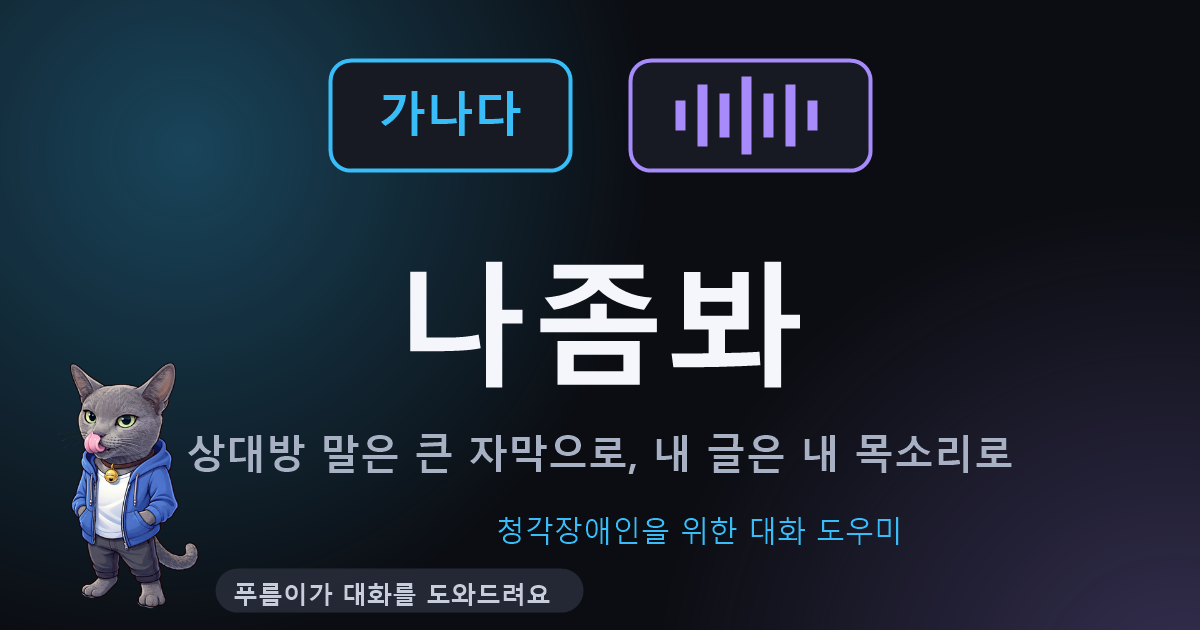
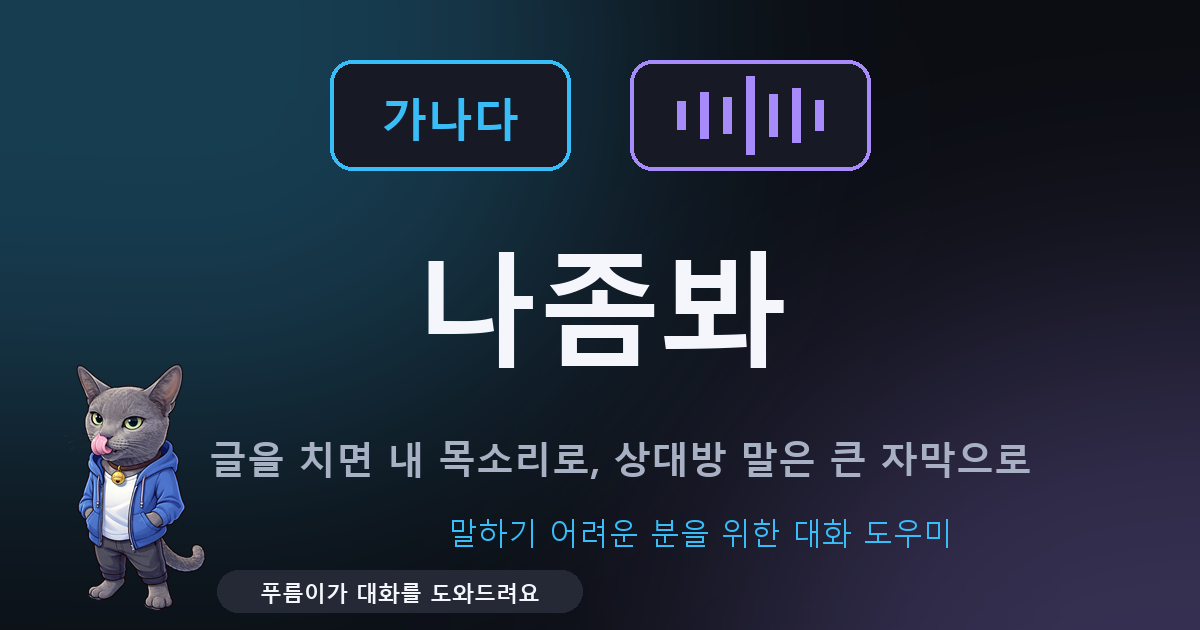
나좀봐: 주 대상을 '말하기 어려운 분'으로 문구 정리
대화 시작 카드에서 '말하기 어려워요 / 잘 안 들려요'를 고르게 하고(기본은 말하기, 선택은 기억),
공유 설명·표지 그림·랜딩 카드 문구를 말하기 먼저로 바꿈.

diff --git a/landing/look/index.html b/landing/look/index.html
@@ -4,16 +4,16 @@
 <meta charset="utf-8" />
 <meta name="viewport" content="width=device-width, initial-scale=1, viewport-fit=cover" />
 <title>나좀봐 — 대화를 눈과 목소리로</title>
-<meta name="description" content="청각장애인을 위한 대화 도우미. 상대방 말은 큰 자막으로, 내 글은 내 목소리로." />
+<meta name="description" content="말하기 어려운 분을 위한 대화 도우미. 글을 치면 내 목소리로, 상대방 말은 큰 자막으로." />
 <meta property="og:title" content="나좀봐" />
-<meta property="og:description" content="상대방 말은 큰 자막으로, 내 글은 내 목소리로. 대화 도우미" />
+<meta property="og:description" content="글을 치면 내 목소리로, 상대방 말은 큰 자막으로. 말하기 어려운 분을 위한 대화 도우미" />
 <meta property="og:url" content="https://vaulted-bus-346411.web.app/look" />
 <meta property="og:type" content="website" />
-<meta property="og:image" content="https://vaulted-bus-346411.web.app/look/og.png" />
+<meta property="og:image" content="https://vaulted-bus-346411.web.app/look/og.png?v=2" />
 <meta property="og:image:width" content="1200" />
 <meta property="og:image:height" content="630" />
 <meta name="twitter:card" content="summary_large_image" />
-<meta name="twitter:image" content="https://vaulted-bus-346411.web.app/look/og.png" />
+<meta name="twitter:image" content="https://vaulted-bus-346411.web.app/look/og.png?v=2" />
 <style>
   :root {
     --bg: #0b0d12; --panel: #171a23; --line: #2a2f3d;
@@ -93,6 +93,12 @@
     display: none; flex-direction: column; padding: 24px 20px; overflow-y: auto;
   }
   .overlay.on { display: flex; }
+  #greetPick { display: flex; gap: 8px; justify-content: center; margin-bottom: 28px; }
+  #greetPick button {
+    padding: 8px 14px; border-radius: 999px; border: 1px solid var(--line); background: var(--panel);
+    color: var(--dim); font-size: 14px; font-family: inherit; cursor: pointer;
+  }
+  #greetPick button.sel { border-color: var(--accent); color: var(--accent); }
   .overlay .closeBtn {
     min-height: 54px; border-radius: 14px; border: 1px solid var(--line);
     background: var(--panel); color: var(--fg); font-size: 18px; font-weight: 700;
@@ -162,9 +168,11 @@
 
 <!-- 대화 시작 카드 -->
 <div class="overlay" id="greetCard" style="justify-content:center; text-align:center;">
-  <div style="font-size:34px; font-weight:800; line-height:1.5; word-break:keep-all;">
-    저는 소리가 잘 들리지 않아요.<br><br>이 화면에 대고 말씀해 주시면<br><b style="color:var(--accent)">글자로 보여요</b> 🙂
+  <div id="greetPick">
+    <button data-greet="speak">말하기 어려워요</button>
+    <button data-greet="hear">잘 안 들려요</button>
   </div>
+  <div id="greetText" style="font-size:34px; font-weight:800; line-height:1.5; word-break:keep-all;"></div>
   <button class="closeBtn" id="greetClose">확인</button>
 </div>
 
@@ -384,6 +392,21 @@ $("obDone").addEventListener("click", () => {
 });
 
 // ----- 대화 시작 카드 -----
+// 대화 시작 카드: 내 상황에 맞는 안내문을 고른다 (고른 값은 기억)
+const GREETS = {
+  speak: '저는 말하기가 어려워요.<br><br>제가 글을 쓰면<br><b style="color:var(--accent)">폰이 대신 말해 드려요</b> 🙂',
+  hear: '저는 소리가 잘 들리지 않아요.<br><br>이 화면에 대고 말씀해 주시면<br><b style="color:var(--accent)">글자로 보여요</b> 🙂',
+};
+function renderGreet() {
+  const mode = GREETS[localStorage.getItem("look_greet")] ? localStorage.getItem("look_greet") : "speak";
+  $("greetText").innerHTML = GREETS[mode];
+  document.querySelectorAll("#greetPick button").forEach((b) => b.classList.toggle("sel", b.dataset.greet === mode));
+}
+document.querySelectorAll("#greetPick button").forEach((b) => b.addEventListener("click", () => {
+  localStorage.setItem("look_greet", b.dataset.greet);
+  renderGreet();
+}));
+renderGreet();
 $("greetBtn").addEventListener("click", () => { $("greetCard").classList.add("on"); });
 $("greetClose").addEventListener("click", () => { $("greetCard").classList.remove("on"); });
 

diff --git a/landing/look/toss.html b/landing/look/toss.html
@@ -5,9 +5,9 @@
 <meta name="viewport" content="width=device-width, initial-scale=1" />
 <title>나좀봐 — 토스에서 열기</title>
 <meta property="og:title" content="나좀봐 👀" />
-<meta property="og:description" content="상대방 말은 큰 자막으로, 내 글은 내 목소리로. 무료 대화 도우미" />
+<meta property="og:description" content="글을 치면 내 목소리로, 상대방 말은 큰 자막으로. 무료 대화 도우미" />
 <meta property="og:type" content="website" />
-<meta property="og:image" content="https://vaulted-bus-346411.web.app/look/og.png" />
+<meta property="og:image" content="https://vaulted-bus-346411.web.app/look/og.png?v=2" />
 <meta property="og:image:width" content="1200" />
 <meta property="og:image:height" content="630" />
 <style>
@@ -25,7 +25,7 @@
 </head>
 <body>
 <h1>👀 나좀봐</h1>
-<p class="sub">상대방 말은 큰 자막으로,<br>내 글은 내 목소리로</p>
+<p class="sub">글을 치면 내 목소리로,<br>상대방 말은 큰 자막으로</p>
 <a class="go" href="intoss://najombwa">토스에서 바로 열기</a>
 <a class="web" href="https://vaulted-bus-346411.web.app/look">웹으로 쓰기 (설치 불필요)</a>
 <p class="hint">버튼이 안 되면 토스 앱에서 '나좀봐'를 검색하세요.<br>무료 · 광고 없음 · 회원가입 없음</p>

diff --git a/landing/index.html b/landing/index.html
@@ -319,7 +319,7 @@
         <a class="card c3" href="/look" style="cursor:pointer">
           <div class="dot">👀</div>
           <h3>나좀봐</h3>
-          <p>상대방 말은 큰 자막으로, 내 글은 내 목소리로. 청각장애인을 위한 대화 도우미예요.</p>
+          <p>글을 치면 내 목소리로, 상대방 말은 큰 자막으로. 말하기 어려운 분을 위한 대화 도우미예요.</p>
         </a>
         <a class="card c1" href="/ladybug" style="cursor:pointer">
           <div class="dot">🐞</div>

diff --git a/landing/look/test.html b/landing/look/test.html
@@ -7,7 +7,7 @@
 <meta property="og:title" content="나좀봐 👀" />
 <meta property="og:description" content="버튼 한 번이면 토스에서 나좀봐가 열려요" />
 <meta property="og:type" content="website" />
-<meta property="og:image" content="https://vaulted-bus-346411.web.app/look/og.png" />
+<meta property="og:image" content="https://vaulted-bus-346411.web.app/look/og.png?v=2" />
 <meta property="og:image:width" content="1200" />
 <meta property="og:image:height" content="630" />
 <style>
